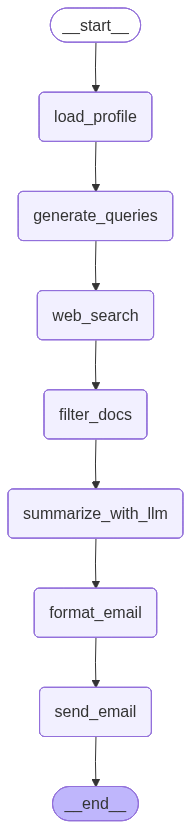
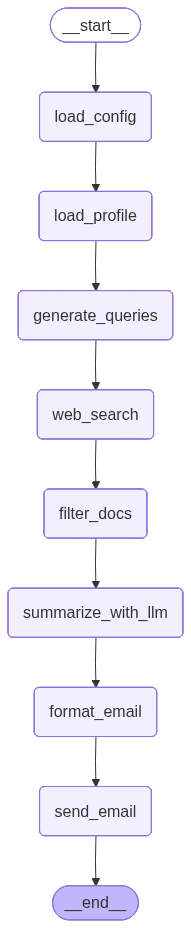
Feature: CI/CD and fix input

diff --git a/agents/nodes.py b/agents/nodes.py
@@ -12,10 +12,32 @@ from email.message import EmailMessage
 from langchain_groq import ChatGroq
 from .datatype import SearchQueries, ScoreOutput
 from dotenv import load_dotenv
+import yaml
 
 load_dotenv()
 
 llm = ChatGroq(model="llama-3.1-8b-instant", api_key=os.getenv("GROQ_API_KEY"), max_tokens=1000)
+
+def load_config(state: DigestState) -> dict:
+    config_path = "config/input.yml"
+
+    if not os.path.exists(config_path):
+        raise FileNotFoundError(f"Configuration file not found at {config_path}")
+    
+    with open(config_path, "r") as f:
+        data = yaml.safe_load(f)
+    
+    data = data["input"]
+    return {
+        "user_id": data.get("user_id", "default_user"),
+        "run_date": data.get("run_date", datetime.now().strftime("%Y-%m-%d")),
+        "topics": data.get("topics", []),
+        "max_articles_per_topic": data.get("max_articles_per_topic", 3),
+        "user_interests": data.get("user_interests", []),
+        "output_language": data.get("output_language", "en"),
+        "digest_style": data.get("digest_style", "brief")
+
+    }
 
 def load_profile(state: DigestState) -> dict:
     topics = state["topics"] or ["RAG"]

diff --git a/agents/graph.py b/agents/graph.py
@@ -1,10 +1,11 @@
 from langgraph.graph import StateGraph, END, START
 from .state import DigestState
-from .nodes import load_profile, generate_queries, web_search, filter_docs, summarize_with_llm, format_email, send_email
+from .nodes import load_config, load_profile, generate_queries, web_search, filter_docs, summarize_with_llm, format_email, send_email
 
 def build_graph():
     builder = StateGraph(DigestState)
 
+    builder.add_node("load_config", load_config)
     builder.add_node("load_profile", load_profile)
     builder.add_node("generate_queries", generate_queries)
     builder.add_node("web_search", web_search)
@@ -14,7 +15,8 @@ def build_graph():
     builder.add_node("send_email", send_email)
 
 
-    builder.add_edge(START, "load_profile")
+    builder.add_edge(START, "load_config")
+    builder.add_edge("load_config", "load_profile")
     builder.add_edge("load_profile", "generate_queries")
     builder.add_edge("generate_queries", "web_search")
     builder.add_edge("web_search", "filter_docs")

diff --git a/main.py b/main.py
@@ -3,8 +3,12 @@ from IPython.display import Image, display
 import os, getpass
 from utils.utils import save_file
 
+
+
 if __name__ == "__main__":
 
     graph = build_graph()
     img = graph.get_graph(xray= True).draw_mermaid_png()
     save_file("public/graph.png", img)
+
+    result = graph.invoke({})
